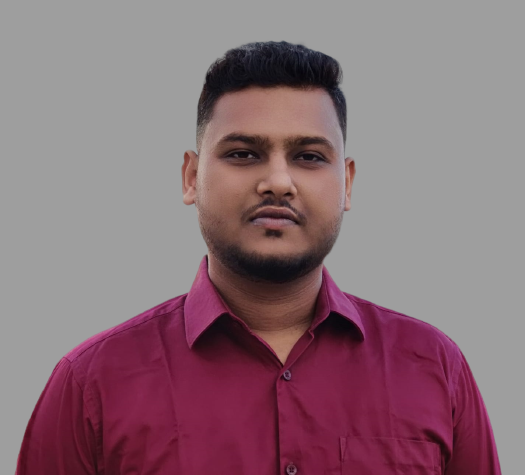
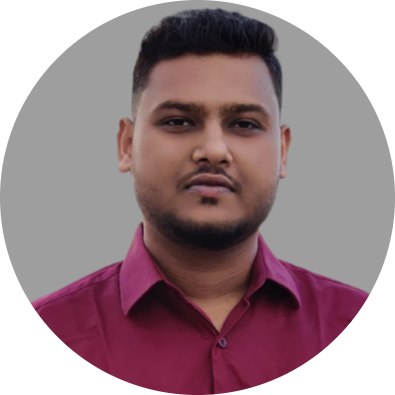
added my own pic

diff --git a/index.html b/index.html
@@ -28,7 +28,7 @@
                 <button class="btn-primary">Download CV</button>
                 <button class="btn-primary">Contact</button>
             </div>
-            <img class="profile-pic" src="images/hardy.png" alt="">
+            <img class="profile-pic" src="images/zahid.png" alt="">
         </div>
     </header>
     <main>
